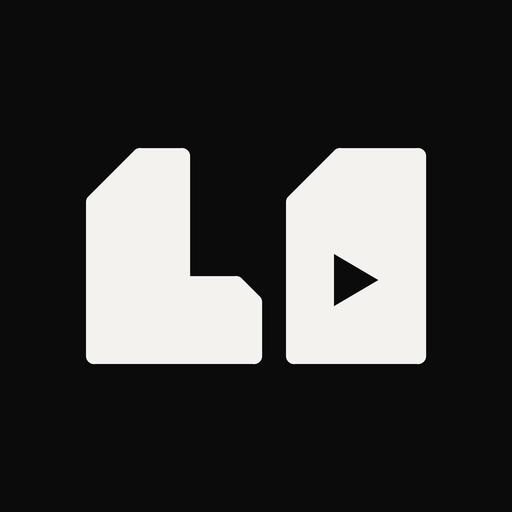
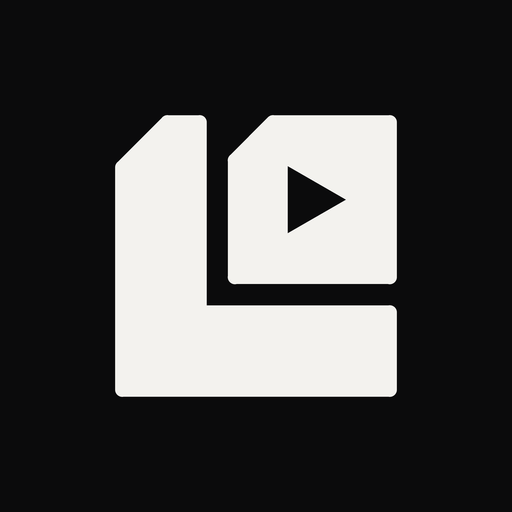
New square mark: a solid L wrapping a square clip card with a play window, with an empty L-shaped gap between them (earlier versions kept in public/brand)

Changed region(s): [[0.1562, 0.2188, 0.8438, 0.7812]]

diff --git a/BRAND.md b/BRAND.md
@@ -1,23 +1,28 @@
 # The logoless mark
 
-Files are in `public/brand/` (`v1`, `v2` hold the earlier versions).
+Files are in `public/brand/`. Earlier versions are kept in `v1`, `v2` and `v3`.
+
+## What it is
+
+A perfect square, made of two pieces that fit together: a solid **L**, and a **square clip card** with a play button cut clean through it. Nothing is added to the square. Nothing sticks out of it.
 
 ## What it means
 
-The mark is two letters, **L** and **l**: "logo-less". Every part of it carries an idea.
-
-1. **The play button cut out of the second letter.** logoless is the place where views have value, with no logo in the way. A logo would normally sit in that space. Here the space is empty, and the thing left in it is the clip: a play button, punched all the way through so you can see the page behind it. "Less" is literally the hole.
-2. **The L's foot points at it.** The top edge of the L's foot lines up with the middle of the play button. The foot is the path a clip takes: from the person who made it, to the views it earns. Its clipped end is an arrow in miniature.
-3. **Equal heights.** Both letters stand at exactly the same height, on the same baseline. Clippers, brands and viewers are treated as equals: nobody's name is bigger than anyone else's.
-4. **Clipped corners.** Both letters have their top-left corner cut at exactly 45 degrees, the way a clip is trimmed. The cut is the same angle everywhere in the mark, including the end of the foot.
-5. **The gap.** A narrow channel separates the two letters. It is the "less" between "logo" and "less", and it keeps the foot and the card from touching.
+1. **The square is the frame.** Every clip lives in a frame: a screen, a post, a thumbnail. It is also the shape of every app icon, so the mark is its own container. One shape, one idea, at every size.
+2. **The solid L is the platform, and the "L" in logoless.** It runs the full height of the square and the full width, and the clip rests inside its reach. It holds the work up and keeps it from falling out of the frame. It does not cover it.
+3. **The gap is a second, empty L.** The channel between the pieces is the same width all the way round, and it bends the same way the solid L does. So the mark spells "ll" twice: one L you can see, one you can't. **Logo** and **less**. The empty one is the point of the name.
+4. **The card is a perfect square, and the hero.** It is the only piece with a window in it, and it gets the middle of the frame. In logoless the clip is what gets the room.
+5. **The play button is punched all the way through.** Where a logo would normally sit there is only a way to look through. The window is never filled in, so it always shows what is behind the mark. Its point faces right: forward, onward, the way views and earnings travel.
+6. **Both top-left corners are clipped at exactly 45 degrees**, like a trimmed clip or a turned corner. The two cuts run parallel, as if one diagonal line sliced through both pieces.
+7. **Everything lines up.** The tops of the L and the card are flush. The right edge of the foot and the right edge of the card are flush. The stem, the gap and the card are all multiples of the same small unit (104 : 24 : 192), so the mark can be drawn on any grid.
 
 ## Rules
 
 - Colours: `#f3f2ee` (paper) on `#0b0b0c` (ink). The light version swaps them. A single red `#ff2a2a` may replace paper for promotions.
-- Never stretch, outline, add shadows or a glow. Never recolour the play window: it must always show whatever is behind the mark.
-- Keep clear space around the mark of at least the width of the L's stem.
+- Never stretch, rotate, outline, shadow or glow the mark. Never fill the play window.
+- Keep clear space around the mark of at least the width of the L's stem (one third of the mark).
 - For tiny sizes (favicons) use `favicon-*.png`, which are scaled up inside the square.
+- In app icons the mark covers 55% of the square, which keeps it fully visible inside round and rounded Android and iOS masks.
 
 ## Files
 
